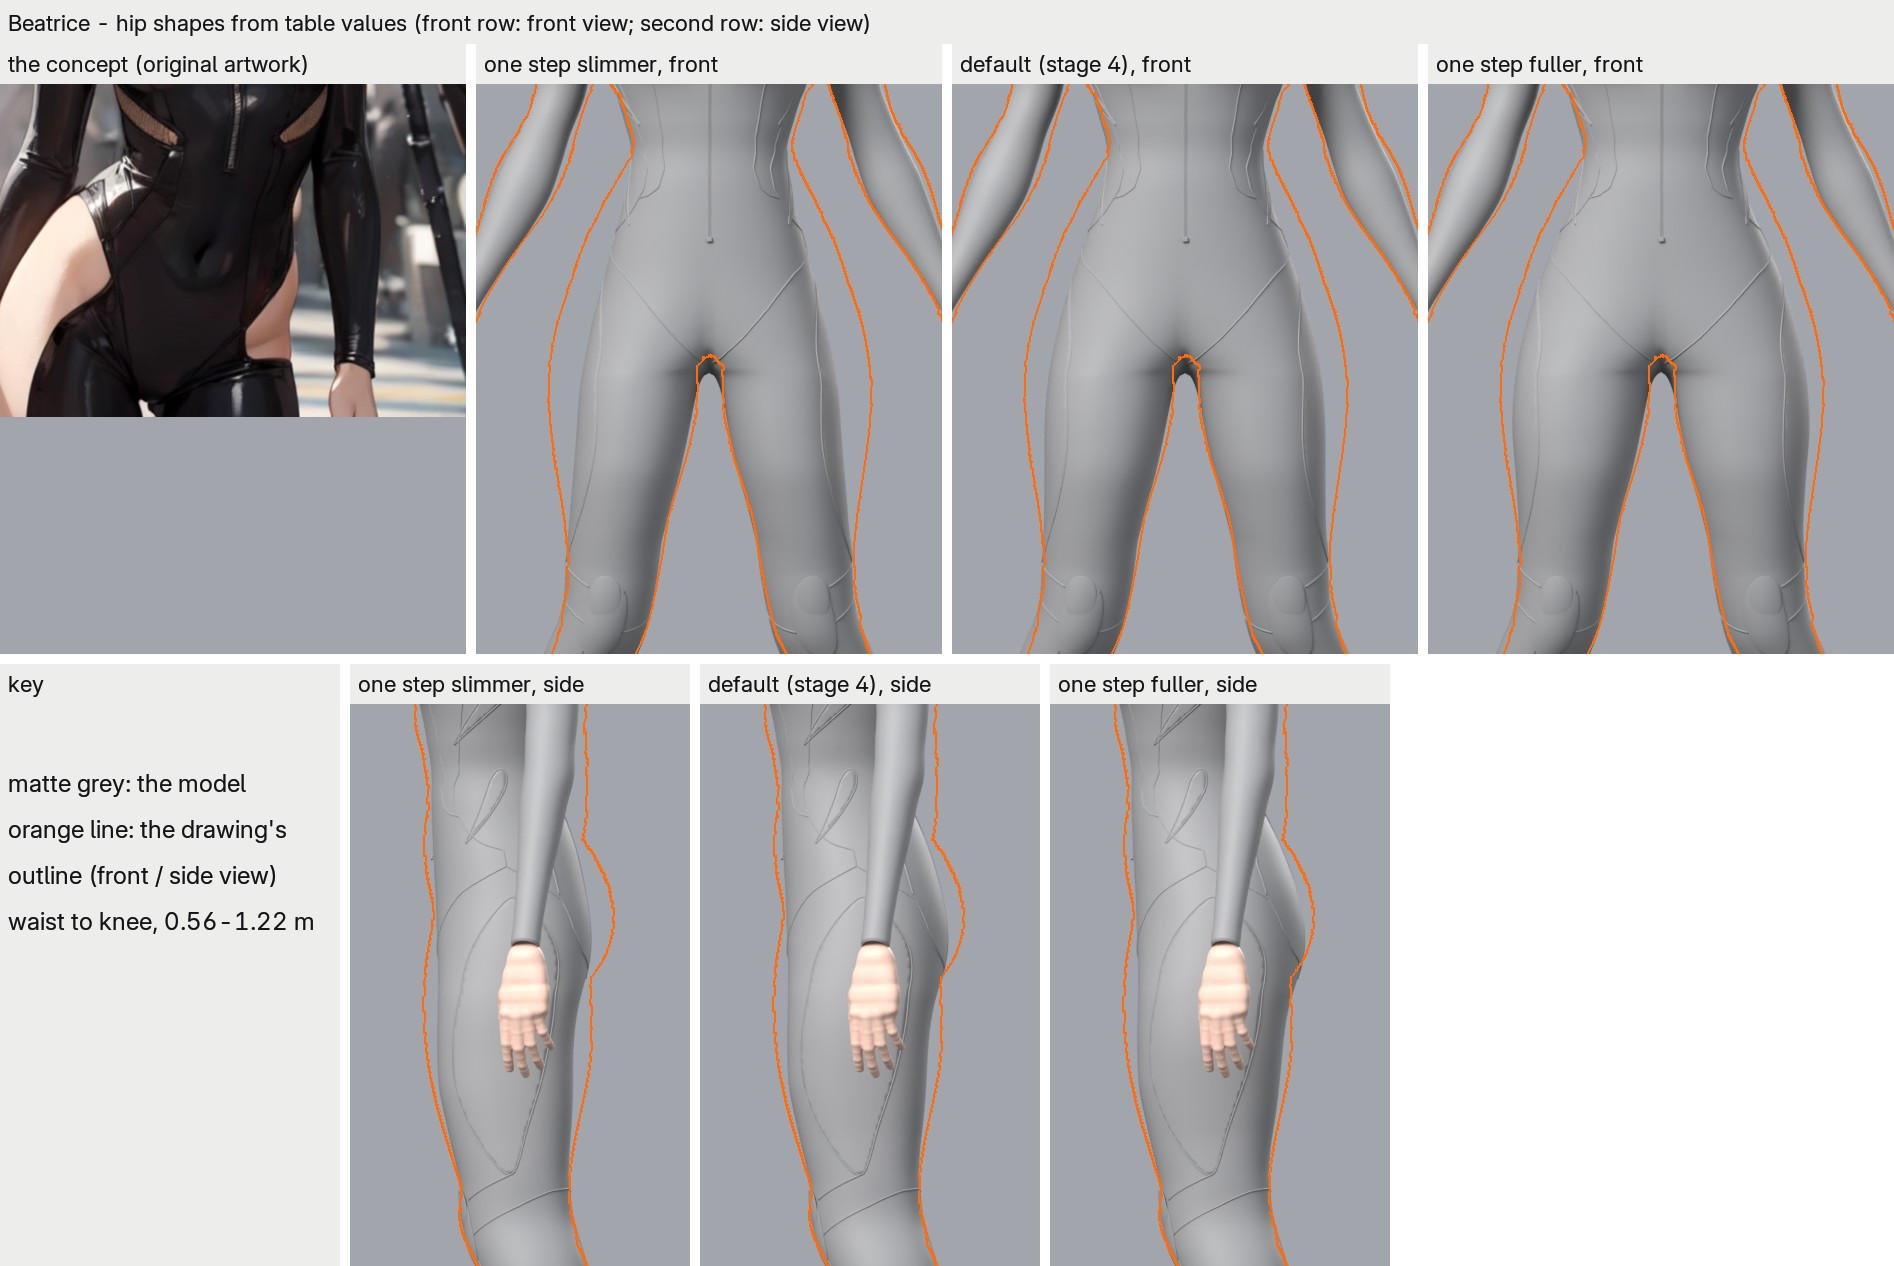
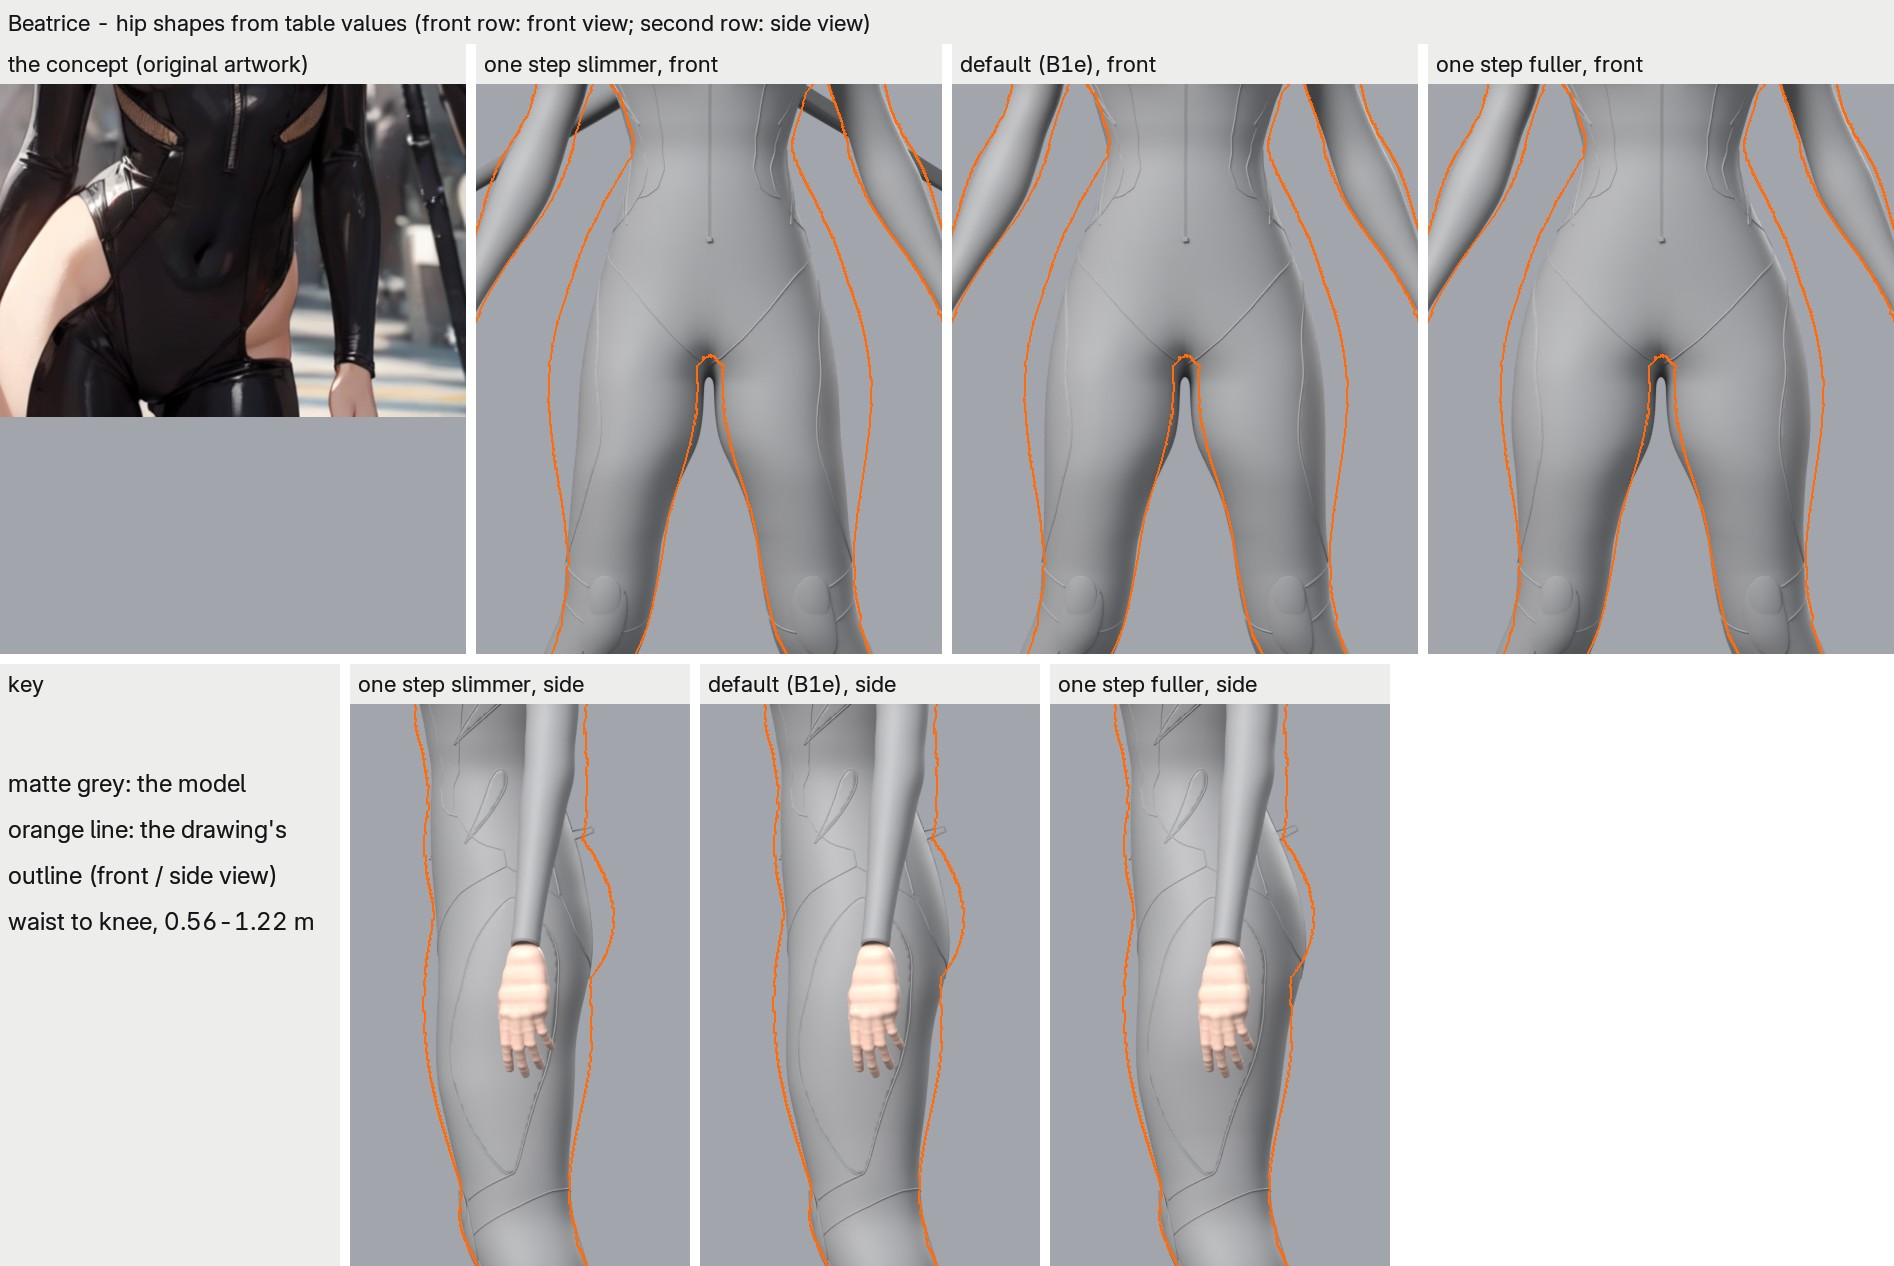
art(#33): Beatrice -- shape_vs_concept.jpg rebuilt with the B1e default labelled as such

diff --git a/art/characters/Beatrice/scripts/beatrice.py b/art/characters/Beatrice/scripts/beatrice.py
@@ -253,7 +253,7 @@ SHAPES = dict(
 
 # The hips comparison (`--compare`, shape_vs_concept.jpg): (shape, label), slimmest first, and the
 # height band it shows (waist to knee, metres)
-COMPARE = (("slimmer", "one step slimmer"), ("", "default (stage 4)"), ("fuller", "one step fuller"))
+COMPARE = (("slimmer", "one step slimmer"), ("", "default (B1e)"), ("fuller", "one step fuller"))
 COMPARE_BAND = (0.56, 1.22)
 # the hip pictures' "before" (`--hips`, hips_before_after.jpg): the previous default
 HIPS_BEFORE = "stage4"
